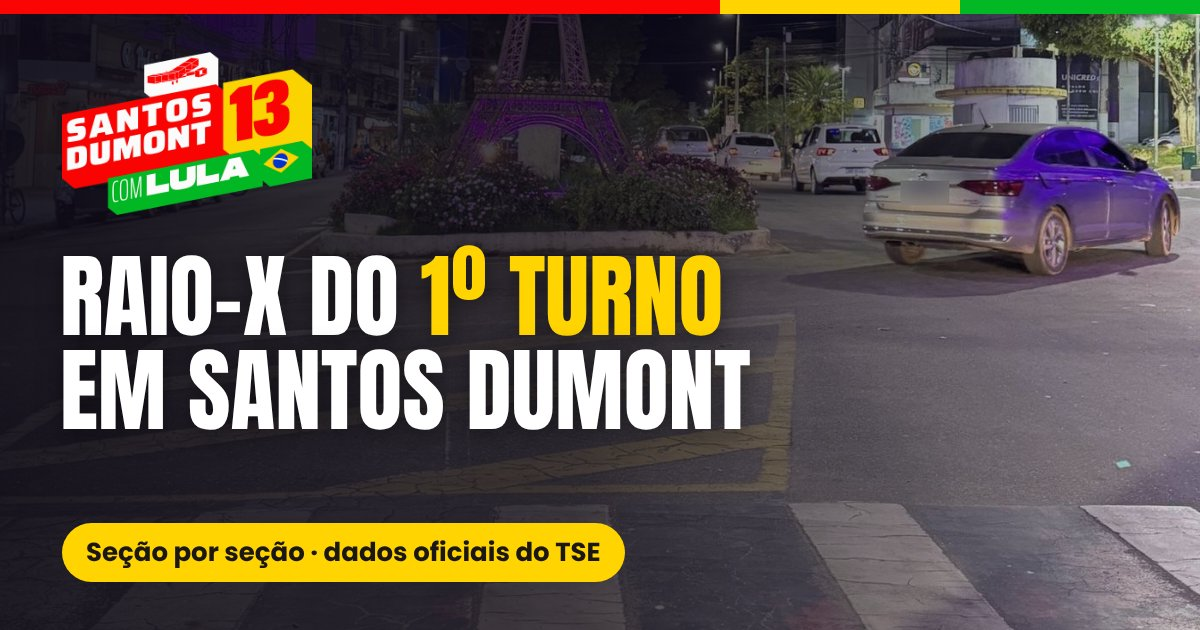
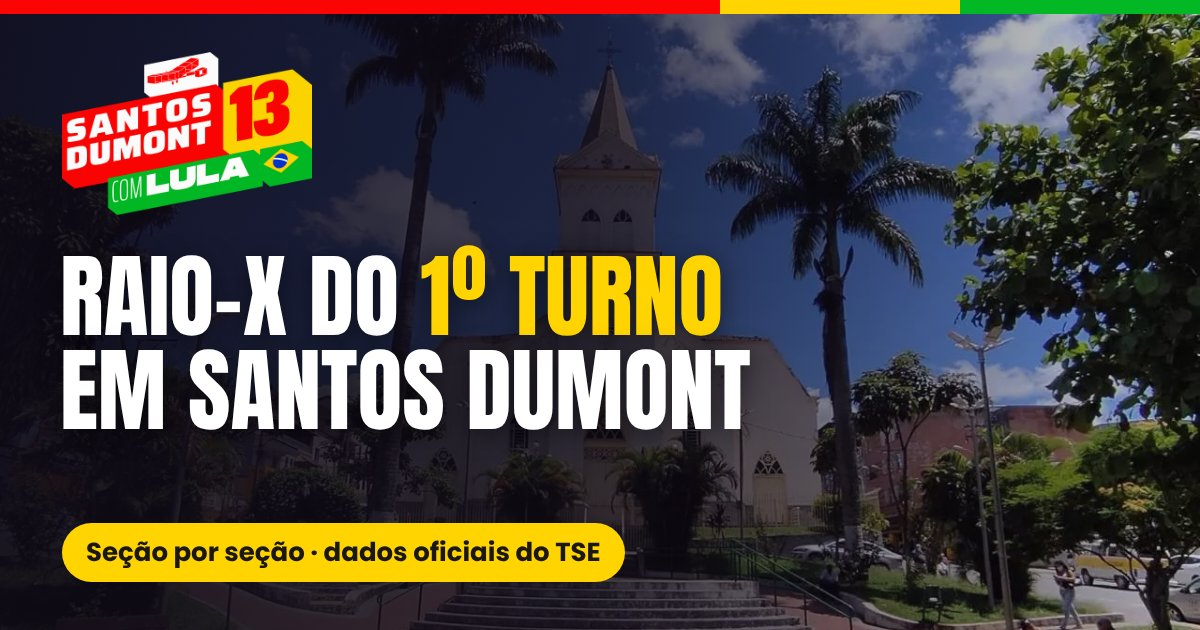
Novas fotos: praça com igreja, estátua de Santos Dumont, centro e militância

diff --git a/index.html b/index.html
@@ -55,8 +55,8 @@ button,select,input,textarea{font:inherit;color:inherit}
 /* topo: foto da Torre de Santos Dumont + logo */
 .stripe{height:8px;background:linear-gradient(90deg,var(--brand-red) 0 60%,var(--yellow) 60% 80%,var(--brand-green) 80% 100%)}
 header.hero{position:relative;overflow:hidden;background:#120E1C;color:#FFFFFF}
-header.hero .bg{position:absolute;inset:0;width:100%;height:100%;object-fit:cover;object-position:50% 22%;max-width:none}
-header.hero::after{content:"";position:absolute;inset:0;background:linear-gradient(180deg,rgba(14,10,22,.35) 0%,rgba(14,10,22,.55) 45%,rgba(14,10,22,.92) 100%)}
+header.hero .bg{position:absolute;inset:0;width:100%;height:100%;object-fit:cover;object-position:50% 30%;max-width:none}
+header.hero::after{content:"";position:absolute;inset:0;background:linear-gradient(180deg,rgba(14,10,22,.25) 0%,rgba(14,10,22,.45) 40%,rgba(14,10,22,.9) 100%)}
 header.hero .wrap{position:relative;z-index:1;padding-block:20px 22px}
 .hero .logo{display:block;width:clamp(150px,34vw,230px);height:auto;filter:drop-shadow(0 6px 18px rgba(0,0,0,.45))}
 .eyebrow{font-size:12.5px;font-weight:600;letter-spacing:.06em;text-transform:uppercase;color:var(--muted)}
@@ -71,7 +71,9 @@ h1 em{font-style:normal;color:var(--yellow)}
 .photo img{display:block;width:100%;height:clamp(150px,30vw,260px);object-fit:cover}
 .photo figcaption{position:absolute;left:0;right:0;bottom:0;padding:28px 14px 10px;background:linear-gradient(180deg,transparent,rgba(0,0,0,.75));color:#FFFFFF;font-size:13px;font-weight:600}
 .cta .photo{margin:-20px -20px 4px;border-radius:var(--r) var(--r) 0 0}
-.cta .photo img{object-position:50% 66%;height:clamp(190px,34vw,300px)}
+.cta .photo img{object-position:50% 50%;height:clamp(200px,36vw,320px)}
+.pstat img{object-position:30% 22%;height:clamp(180px,34vw,300px)}
+#focar .photo img{object-position:50% 45%}
 /* galeria */
 .gal{display:flex;gap:8px;overflow-x:auto;scroll-snap-type:x mandatory;padding-bottom:6px;-webkit-overflow-scrolling:touch}
 .gal a{flex:0 0 clamp(118px,30%,170px);scroll-snap-align:start;display:block;border-radius:10px;overflow:hidden;border:1px solid var(--line);background:var(--chip)}
@@ -254,7 +256,7 @@ footer ul{padding-left:18px;margin:6px 0}
 <body>
 <div class="stripe"></div>
 <header class="hero">
-  <img class="bg" src="torre.jpg" alt="" fetchpriority="high">
+  <picture><source media="(min-width:700px)" srcset="igreja-larga.jpg"><img class="bg" src="igreja.jpg" alt="" fetchpriority="high"></picture>
   <div class="wrap">
     <img class="logo" src="logo.png" alt="Santos Dumont 13 com Lula" width="560" height="366">
     <div class="eyebrow">@santosdumontcomlula · dados oficiais do TSE</div>
@@ -262,7 +264,7 @@ footer ul{padding-left:18px;margin:6px 0}
     <p class="lede">Argumentos com fonte, o resultado do 1º turno seção por seção e o kit pra virar voto até o dia 25.</p>
     <div class="countdown" id="countdown">2º turno: 25 de outubro</div>
   </div>
-  <span class="credit">Réplica da Torre Eiffel · Santos Dumont</span>
+  <span class="credit">Praça e igreja · Santos Dumont</span>
 </header>
 
 <nav class="tabs" aria-label="Seções da página"><div class="wrap" role="tablist">
@@ -316,6 +318,7 @@ footer ul{padding-left:18px;margin:6px 0}
 
 <!-- ============ RESULTADO ============ -->
 <section class="view" id="resultado" role="tabpanel" aria-labelledby="t-resultado" hidden>
+  <figure class="photo pstat" style="margin:0"><img src="estatua.jpg" alt="Estátua de Santos Dumont sentado num banco da praça" loading="lazy"><figcaption>Santos Dumont, seção por seção: o resultado oficial do 1º turno.</figcaption></figure>
   <div class="card" id="filtros">
     <div class="filters">
       <div class="field"><label for="f-bairro">Bairro</label><select id="f-bairro"></select></div>
@@ -370,7 +373,7 @@ footer ul{padding-left:18px;margin:6px 0}
 
 <!-- ============ ONDE FOCAR ============ -->
 <section class="view" id="focar" role="tabpanel" aria-labelledby="t-focar" hidden>
-  <figure class="photo" style="margin:0"><img src="escola.jpg" alt="Escola de Santos Dumont que funciona como local de votação" loading="lazy"><figcaption>Em Santos Dumont, a eleição acontece em 53 locais: escolas, clubes e salões dos bairros.</figcaption></figure>
+  <figure class="photo" style="margin:0"><img src="praca.jpg" alt="Vista do centro de Santos Dumont, com a praça, a igreja e o prédio histórico" loading="lazy"><figcaption>Quase 6 em cada 10 eleitores votam em locais do Centro. A eleição acontece em 53 locais da cidade.</figcaption></figure>
   <div class="card">
     <h2>O tamanho do jogo</h2>
     <div class="facts" id="facts"></div>
@@ -388,7 +391,7 @@ footer ul{padding-left:18px;margin:6px 0}
 <!-- ============ VIRAR VOTO ============ -->
 <section class="view" id="virar" role="tabpanel" aria-labelledby="t-virar" hidden>
   <div class="cta">
-    <figure class="photo" style="margin-bottom:4px"><img src="ato.jpg" alt="Apoiadores do Lula com bandeiras nas ruas de Santos Dumont" loading="lazy"><figcaption>Militância nas ruas de Santos Dumont</figcaption></figure>
+    <figure class="photo" style="margin-bottom:4px"><img src="militancia.jpg" alt="Apoiadora sorrindo com a bandeira do Lula 13 em frente à igreja" loading="lazy"><figcaption>Militância nas ruas de Santos Dumont</figcaption></figure>
     <h2>Travou na conversa? Me chama que eu te ajudo!</h2>
     <p>Manda no direct a dúvida ou a desculpa que você ouviu. A gente responde com dado oficial.</p>
     <div class="btnrow"><a class="btn light" href="https://ig.me/m/santosdumontcomlula" target="_blank" rel="noopener">Chamar no direct</a><span style="align-self:center;font-weight:600">@santosdumontcomlula</span></div>
